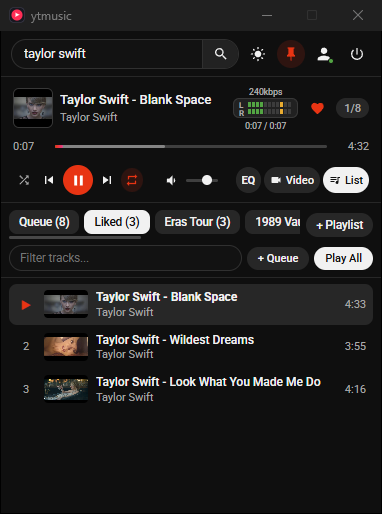
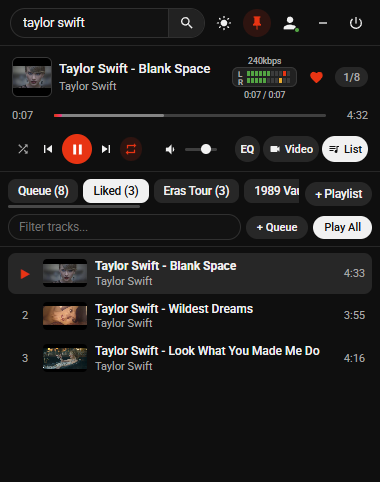
screenshots update

diff --git a/internal/win32/window.go b/internal/win32/window.go
@@ -505,12 +505,12 @@ func newController(h uintptr, cb Callbacks) *Controller {
 	controllers[h] = c
 	ctrlMu.Unlock()
 
+	orig := setWindowLongPtr(h, gwlpWndProc, wndProcCB)
+	c.origWndProc = orig
+
 	c.applyWindowChrome()
 	c.initTray()
 	c.registerMediaHotKeys()
-
-	orig := setWindowLongPtr(h, gwlpWndProc, wndProcCB)
-	c.origWndProc = orig
 
 	var rc rect
 	procGetWindowRect.Call(h, uintptr(unsafe.Pointer(&rc)))
@@ -672,6 +672,7 @@ func (c *Controller) RevealWindow() {
 	exStyle := getWindowLongPtr(c.hwnd, gwlExStyle)
 	if (exStyle & wsExLayered) != 0 {
 		setWindowLongPtr(c.hwnd, gwlExStyle, exStyle&^wsExLayered)
+		procSetWindowPos.Call(c.hwnd, 0, 0, 0, 0, 0, swpNoMove|swpNoSize|swpNoZOrder|swpNoActivate|swpFrameChanged)
 	}
 	// Uncloak after restoring opacity and clearing WS_EX_LAYERED so DWM presents the first fully composited frame atomically.
 	setWindowCloak(c.hwnd, false)
